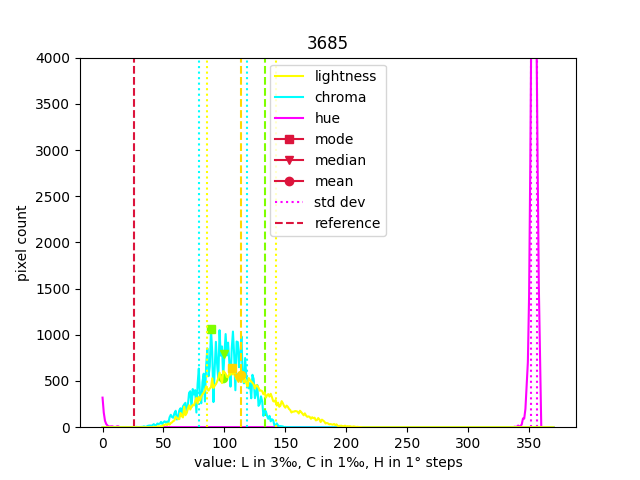
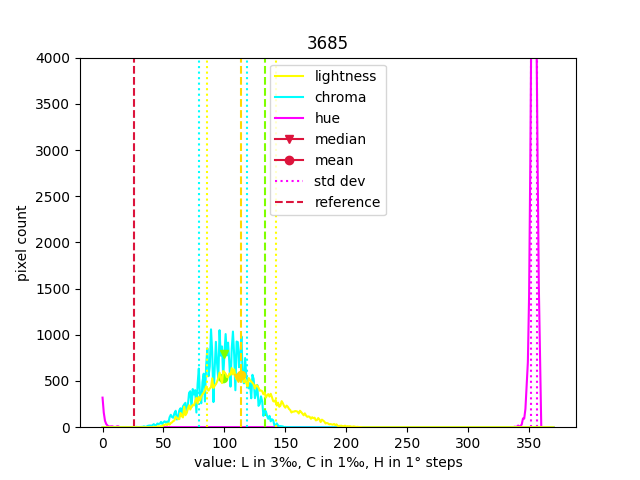
remove mode from histogram

Changed region(s): [[0.4062, 0.2812, 0.5938, 0.5], [0.3125, 0.6562, 0.3438, 0.7188], [0.3438, 0.75, 0.375, 0.7812]]

diff --git a/OklchPlotter.py b/OklchPlotter.py
@@ -47,9 +47,9 @@ class OklchPlotter:
         self.fig, self.ax = plt.subplots()
         self.label_axes()
         yellow = Plot_Lines(self.x, self.ax, self.lightness_stats, 'y')
-        self.ax.legend((yellow.line, yellow.square, yellow.triangle, yellow.dot,
+        self.ax.legend((yellow.line, yellow.triangle, yellow.dot,
                         yellow.dotted_vline_left, yellow.ref_vline),
-                  ('lightness', 'mode', 'median', 'mean',
+                  ('lightness', 'median', 'mean',
                    'std dev', 'reference'))
         self.marker = 'l'
 
@@ -59,9 +59,9 @@ class OklchPlotter:
         self.fig, self.ax = plt.subplots()
         self.label_axes()
         cyan = Plot_Lines(self.x, self.ax, self.chroma_stats, 'c')
-        self.ax.legend((cyan.line, cyan.square, cyan.triangle, cyan.dot,
+        self.ax.legend((cyan.line, cyan.triangle, cyan.dot,
                         cyan.dotted_vline_left, cyan.ref_vline),
-                       ('chroma', 'mode', 'median', 'mean',
+                       ('chroma', 'median', 'mean',
                         'std dev', 'reference'))
         self.marker = 'c'
 
@@ -71,9 +71,9 @@ class OklchPlotter:
         self.fig, self.ax = plt.subplots()
         self.label_axes()
         magenta = Plot_Lines(self.x, self.ax, self.hue_stats, 'm')
-        self.ax.legend((magenta.line, magenta.square, magenta.triangle, magenta.dot,
+        self.ax.legend((magenta.line, magenta.triangle, magenta.dot,
                         magenta.dotted_vline_left, magenta.ref_vline),
-                       ('hue', 'mode', 'median', 'mean',
+                       ('hue', 'median', 'mean',
                         'std dev', 'reference'))
         self.marker = 'h'
 
@@ -87,9 +87,9 @@ class OklchPlotter:
         self.label_axes()
         cyan = Plot_Lines(self.x, self.ax, self.chroma_stats, 'c')
         yellow = Plot_Lines(self.x, self.ax, self.lightness_stats, 'y')
-        self.ax.legend((yellow.line, cyan.line, cyan.square, cyan.triangle, cyan.dot,
+        self.ax.legend((yellow.line, cyan.line, cyan.triangle, cyan.dot,
                         cyan.dotted_vline_left, cyan.ref_vline),
-                       ('lightness', 'chroma', 'mode', 'median', 'mean',
+                       ('lightness', 'chroma', 'median', 'mean',
                         'std dev', 'reference'))
         self.marker = 'lc'
 
@@ -108,10 +108,10 @@ class OklchPlotter:
         cyan = Plot_Lines(self.x, self.ax, self.chroma_stats, 'c')
         yellow = Plot_Lines(self.x, self.ax, self.lightness_stats, 'y')
         self.ax.legend((yellow.line, cyan.line, magenta.line,
-                        magenta.square, magenta.triangle, magenta.dot,
+                        magenta.triangle, magenta.dot,
                         magenta.dotted_vline_left, magenta.ref_vline),
                        ('lightness', 'chroma', 'hue',
-                        'mode', 'median', 'mean',
+                        'median', 'mean',
                         'std dev', 'reference'))
         self.marker = 'lch'
 
@@ -171,7 +171,6 @@ class Plot_Lines:
         if self.mode == 'y':
             self.ref_vline = ax.axvline(stats.ref, color='gold', linestyle='--')
             self.line, = ax.plot(x, stats.hist, color='yellow')
-            self.square, = ax.plot(stats.mode, stats.mode_val, marker='s', color='gold')
             self.triangle, = ax.plot(stats.median, stats.median_val, marker='v', color='gold')
             self.dot, = ax.plot(stats.mean, stats.mean_val, marker='o', color='gold')
             self.dotted_vline_left = ax.axvline(stats.stdev_left, color='yellow', linestyle=':')
@@ -179,7 +178,6 @@ class Plot_Lines:
         if self.mode == 'c':
             self.ref_vline = ax.axvline(stats.ref, color='chartreuse', linestyle='--')
             self.line, = ax.plot(x, stats.hist, color='cyan')
-            self.square, = ax.plot(stats.mode, stats.mode_val, marker='s', color='chartreuse')
             self.triangle, = ax.plot(stats.median, stats.median_val, marker='v', color='chartreuse')
             self.dot, = ax.plot(stats.mean, stats.mean_val, marker='o', color='chartreuse')
             self.dotted_vline_left = ax.axvline(stats.stdev_left, color='cyan', linestyle=':')
@@ -187,7 +185,6 @@ class Plot_Lines:
         if self.mode == 'm':
             self.ref_vline = ax.axvline(stats.ref, color='crimson', linestyle='--')
             self.line, = ax.plot(x, stats.hist, color='magenta')
-            self.square, = ax.plot(stats.mode, stats.mode_val, marker='s', color='crimson')
             self.triangle, = ax.plot(stats.median, stats.median_val, marker='v', color='crimson')
             self.dot, = ax.plot(stats.mean, stats.mean_val, marker='o', color='crimson')
             self.dotted_vline_left = ax.axvline(stats.stdev_left, color='magenta', linestyle=':')
